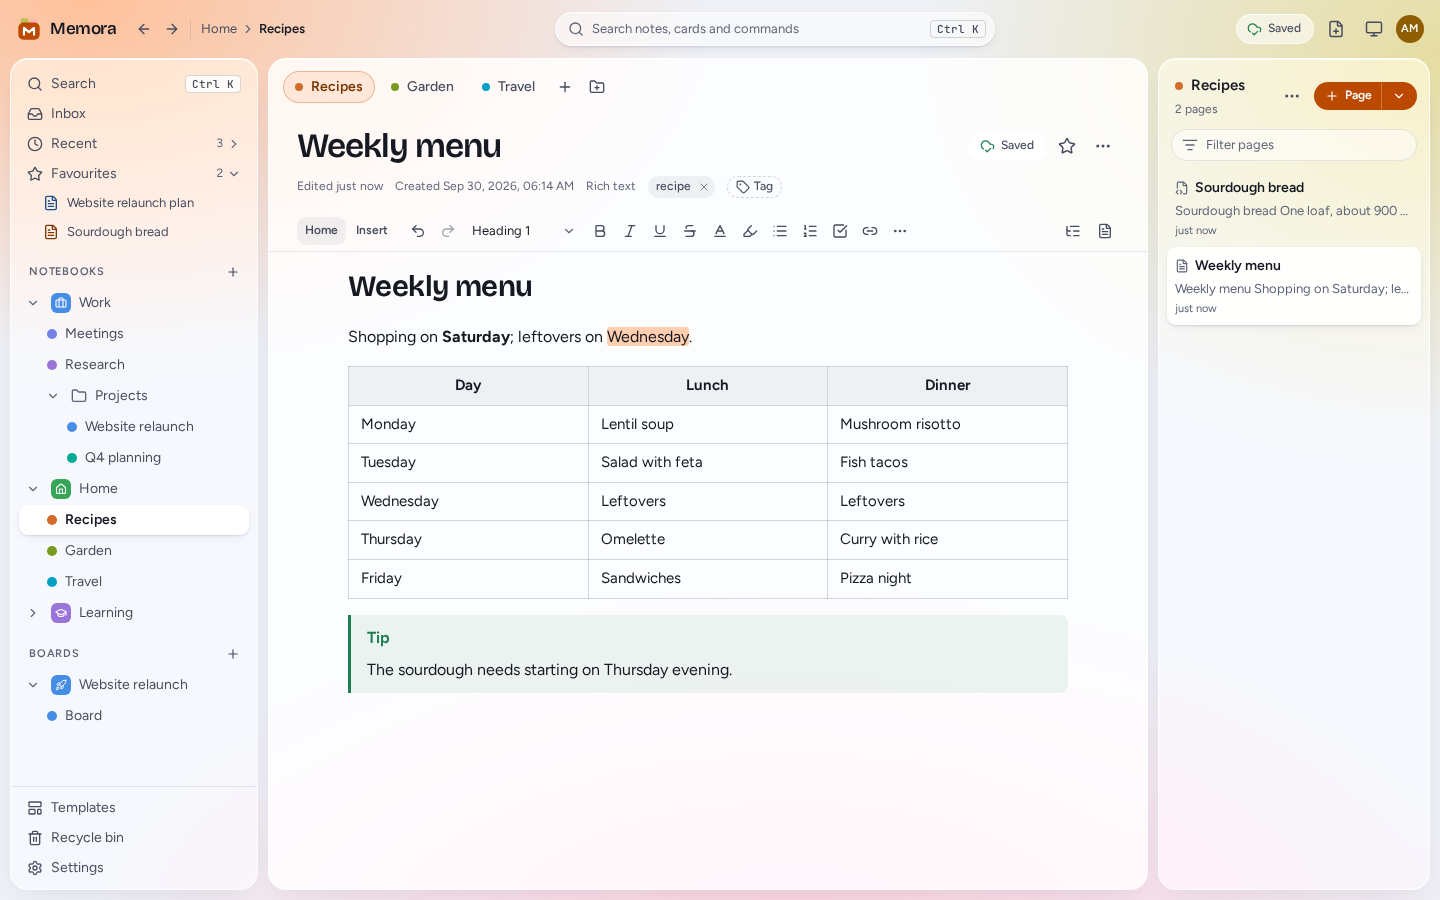
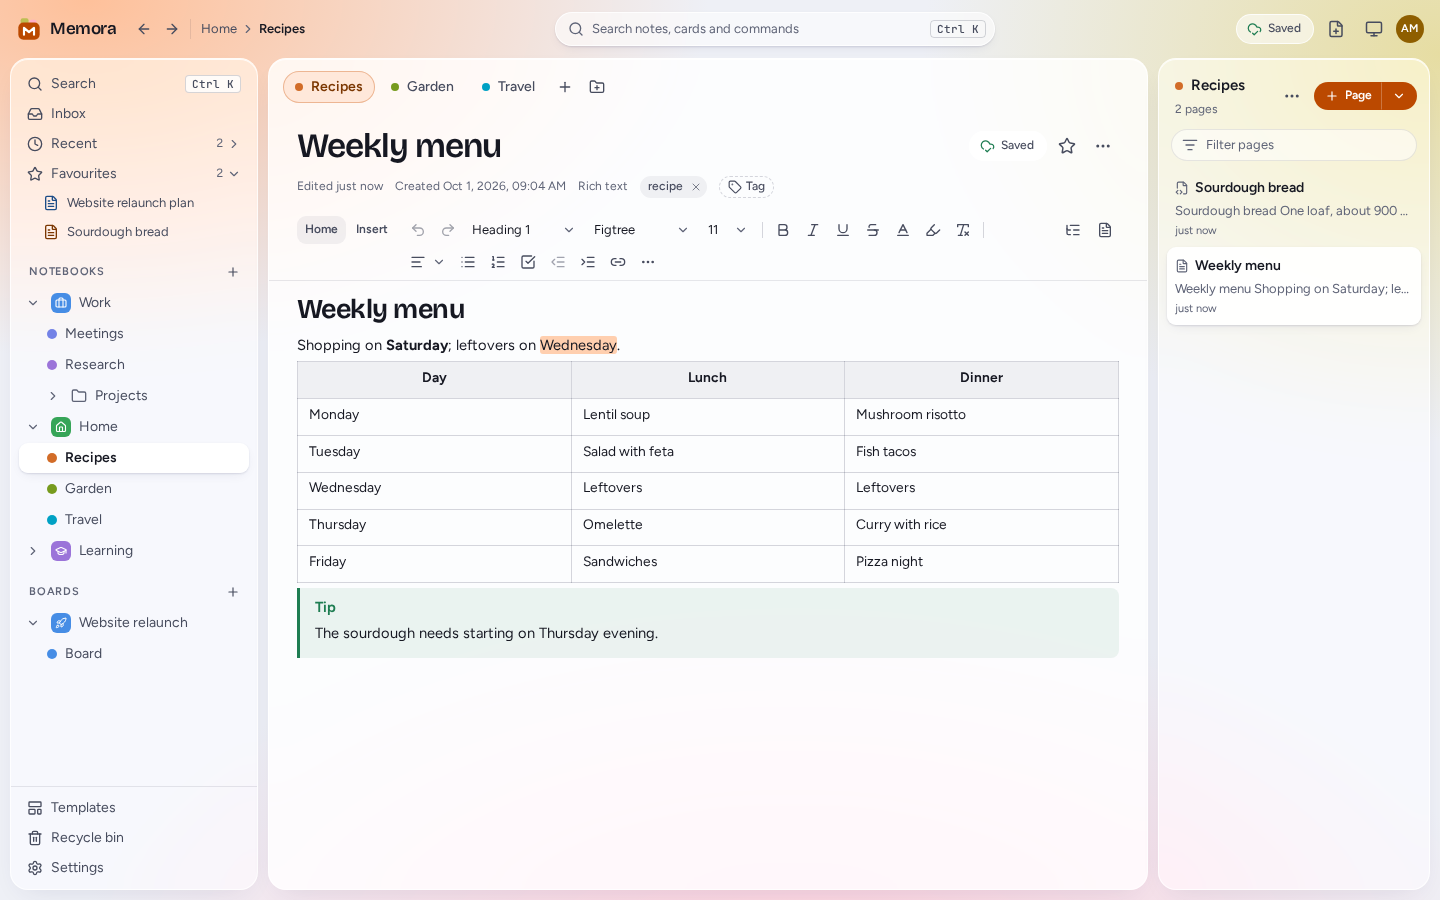
docs: rich text pages as notebook pages
The user guide explains the text's width, to-dos and indents from the
keyboard, the rich text settings and the computer's fonts, with a new
screenshot. The architecture notes cover the width handle, the keys and the
wrapping toolbar.

diff --git a/docs/ARCHITECTURE.md b/docs/ARCHITECTURE.md
@@ -164,7 +164,7 @@ Memora for your computer is the same server and web app, packaged with Electron.
 - **Section colours** (`src/theme/sections.ts`). The 12 colours are OKLCH hue and chroma pairs. Any element with the `hue` class and `--h`/`--c` gets a matching set of tints (`--sec`, `--sec-soft`, `--sec-ink`). The app accent follows the open section, with an animated transition.
 - **Shell** (`src/shell/`). One grid whose columns follow **container queries** on the app root, not the viewport: phone (bottom navigation and drill-down), tablet (icon rail and overlays), desktop (three columns), wide (plus the inspector) and ultra-wide (with the workspace: up to three panes beside the main one). The address says where you are (`/n/`, `/g/`, `/s/`, `/p/` plus an id); `location.ts` turns it into the open notebook, section and page, and on larger screens falls back to the last section and page you had open. Commands (`commands.ts`) are shared by buttons, context menus, the command palette and the keyboard shortcuts (`shortcuts.ts`, one table that also drives the `?` sheet).
 - **Workspace** (`src/workspace/`, D44). From 1920 px, panes sit beside the main pane (which stays the address's): one on wide screens, up to three on ultra-wide ones. `model.ts` holds the rules as pure functions (adding and closing panes and tabs, moving and splitting tabs, resizing, layouts); `store.ts` keeps each device class's workspace in local storage, per user; named layouts go in the UI state. `Workspace.tsx` draws the row of panes, their tabs, the dividers and where a dragged tab would land (`tabDrag.ts`); `PaneContent.tsx` shows a page, a board (`BoardView` with its own open card), a search, or the backlinks or history of the main page. The Layout menu in the top bar saves and applies named layouts.
-- **Readable width.** The page body sets `--measure` from the longest line in the editor settings (or `none` for a page shown at full width, a list in the UI state); the Markdown source, the preview and rich pages stop there, centred.
+- **Readable width.** The page body sets `--measure` from the longest line in the editor settings (or `none` for a page shown at full width, a list in the UI state); the Markdown source and the preview stop there, centred. Rich pages start at the top left and fill the pane, as a notebook's do: the handle on the text's right edge (`rich/TextWidth.tsx`) sets a page's own width, kept in the UI state's `pageWidths` (merged per page by the server, like `lastPages`; null forgets one).
 - **Notes data** (`src/notes/`). The tree is one TanStack Query entry; `model.ts` builds lookups and ordered lists from it once per change, and plans moves with the same rules and sort keys as the server. Every change shows at once and is then replaced by the server's answer; requests go out one at a time, in order, and each answer is laid under the changes still waiting, so an earlier answer never undoes a later change. A failure shows a toast and reloads the tree. UI state (last section and pages, expanded items) is saved a moment after it changes.
 - **Drag and drop** (`src/lib/dnd.ts`). A small pointer-events module instead of a library: drop targets are `data-drop-*` attributes found under the pointer, so rows register nothing. Touch drags start after a long press; Escape cancels. `shell/dropRules.ts` decides what may be dropped where.
 - **Saving and sync** (`src/sync/`, D24–D25). The engine starts after login, with one IndexedDB database per user (`store.ts`, through `idb`). Each page has a record: its text, the revision and text it is based on, and whether it waits to be sent; the outbox is simply the records with unsent changes, plus pages created offline.
@@ -178,7 +178,7 @@ Memora for your computer is the same server and web app, packaged with Electron.
   - If IndexedDB can't be used, a store in memory takes over, the tab saves directly, and the app warns that closing the tab could lose changes.
 - **Markdown** (`src/markdown/`, D27). `pipeline.ts` is the unified pipeline (GFM, footnotes, alerts, maths, wiki links, front matter, raw HTML, then `rehype-sanitize`); block elements get `data-line`. It runs in `render.worker.ts`, which sends back the tree with positions only on top-level blocks. `Preview.tsx` renders each top-level block on its own (memoised by its source), with components for code (Shiki, `highlight.ts`), maths (`math.ts`, KaTeX), diagrams (`mermaid.ts`), images and files (`asset:` links, from this device's copy while they wait to be sent), wiki links and task boxes. `outline.ts` reads headings and counts words from the source.
 - **Editor** (`src/editor/`). `MarkdownPage.tsx` is the page: toolbar, Source / Split / Preview, scroll sync (`scrollSync.ts`, with block positions cached until the preview changes), the outline and the grid editor. `MarkdownEditor.tsx` sets up CodeMirror 6, with settings in compartments so a change needs no new editor. Beside it: the highlight theme (`theme.ts`), table alignment and commands (`tables.ts`, on the shared `table.ts`), formatting commands, slash commands and `[[` suggestions (`completion.ts`), paste and drop (`paste.ts`), image thumbnails and two-column boxes for wide characters (`thumbnails.ts`, `wide.ts`). All of it is one lazily loaded chunk.
-- **Rich text** (`src/rich/`, D30–D32). `schema.ts` is the list of nodes and marks (TipTap's, plus callouts, file cards, images with width, alignment and caption, line spacing and cell colours), used by the editor and by conversion alike. `RichEditor.tsx` keeps the document in step with the sync engine like the Markdown editor (the text is the JSON), and handles paste and drop: files become images or file cards, pasted HTML is cleaned (`clean.ts`) and its web images are downloaded by the server afterwards (`files.ts`). Around it: the Word-like toolbar (`RichToolbar.tsx`, which measures its width to drop the tabs and move tools into "More"), `/` and `[[` menus (`suggestions.ts`), drag handles (`dragHandle.ts`), Shiki colours for code (`codeHighlight.ts`, as decorations), image and file views (`views.tsx`), and the page (`RichPage.tsx`: selection menu, link and formula dialogs, the right-click table menu, the A4/Letter sheet, the outline, and the toolbar above a phone's keyboard). `convert.ts` turns Markdown into a rich document through the preview's pipeline; the other way is `richToMarkdown` in `@memora/shared`. The editor is a lazily loaded chunk; PageBody picks it from the page record's type.
+- **Rich text** (`src/rich/`, D30–D32). `schema.ts` is the list of nodes and marks (TipTap's, plus callouts, file cards, images with width, alignment and caption, line spacing and cell colours), used by the editor and by conversion alike. `RichEditor.tsx` keeps the document in step with the sync engine like the Markdown editor (the text is the JSON), and handles paste and drop: files become images or file cards, pasted HTML is cleaned (`clean.ts`) and its web images are downloaded by the server afterwards (`files.ts`). Around it: the Word-like toolbar (`RichToolbar.tsx`: it wraps onto a second row, keeping related tools together, and on one row, above a phone's keyboard, moves tools into "More"), the notebook keys (`keys.ts`: to-dos ticked with Ctrl/Cmd+Enter or Ctrl/Cmd+1, Tab and Shift+Tab indent, through `schema.ts`'s `indent` attribute on paragraphs and headings), the computer's own fonts where the browser lists them (`LocalFonts.tsx`, Local Font Access; the desktop app allows it), `/` and `[[` menus (`suggestions.ts`), drag handles (`dragHandle.ts`), Shiki colours for code (`codeHighlight.ts`, as decorations), image and file views (`views.tsx`), and the page (`RichPage.tsx`: selection menu, link and formula dialogs, the right-click table menu, the A4/Letter sheet, the outline, the toolbar above a phone's keyboard, clicks beside or below the text that place the cursor on the nearest line, and the default font, size and spacing from the editor settings as CSS variables). `convert.ts` turns Markdown into a rich document through the preview's pipeline; the other way is `richToMarkdown` in `@memora/shared`. The editor is a lazily loaded chunk; PageBody picks it from the page record's type.
 - **Files** (`sync/engine.ts`). `addFile` keeps a pasted file as an `uploadFile` op in IndexedDB and answers a new id; the sender uploads ops before page content. Where IndexedDB can't keep Blobs (Safari's private windows), the op keeps the file's bytes instead. Images can be made smaller first (`lib/images.ts`, an Editing setting). The service worker keeps loaded files in `memora-files`, emptied when the user signs out.
 - **Search, tags and links** (`src/search/`, `shell/PageTags.tsx`, D36–D37). `SearchView.tsx` is `/search`: the query and filters live in the address, results come 150 ms after typing stops, and without a connection titles are searched on the device. With nothing typed it shows recent pages and the tag browser. Links to pages preview their page on hover (`markdown/PageCard.tsx`; `rich/LinkPreview.tsx` in the rich editor), rich pages mark links to missing pages with a decoration (`rich/wikiLinks.ts`), and the inspector lists backlinks.
 - **Favourites, recent pages and templates** (`notes/places.ts`, `shell/Places.tsx`, `templates/`, D38). Both lists are kept in the UI state. "New page ▾" (`shell/NewPageMenu.tsx`), a section's default template and `/template` fill a template in (`contentFor`, converting between Markdown and rich text when needed).

diff --git a/docs/USER_GUIDE.md b/docs/USER_GUIDE.md
@@ -65,16 +65,23 @@ The source is on the left, the finished page on the right, and the two scroll to
 
 ![A rich text page with a table, a note box and an image](images/rich.png)
 
-Rich text pages work like a word processor. The toolbar has **Home**, **Insert** and **Table** tabs; on narrow screens, **More** has everything.
+Rich text pages work like a page of a notebook, with a word processor's tools. The toolbar has **Home**, **Insert** and **Table** tabs. When the window is too narrow for one row, the toolbar takes two; on phones, **More** has everything.
 
-- Headings, bold, italic, underline, strikethrough, superscript and subscript; text colours and highlights; fonts, sizes, alignment and line spacing.
-- Lists, task lists, quotes, note boxes, dividers, code blocks and maths.
+- **The text starts at the top left**, under the title, and fills the pane. Drag its right edge to make it narrower: each page keeps its own width. Double-click the edge, or choose **Fit the text to the pane** in the page's **⋯** menu, to fill the pane again.
+- `Enter` in the title goes on to the text. Clicking beside or below the text puts the cursor on the nearest line.
+- Headings, bold, italic, underline, strikethrough, superscript and subscript; text colours and highlights; fonts, sizes, alignment and line spacing. `Ctrl+Space` clears the formatting of the selected text.
+- **To-dos:** `Ctrl/Cmd+1` makes a line a to-do, and ticks it when it already is one. `Ctrl/Cmd+Enter` ticks or unticks it. Done items are struck through.
+- **`Tab` and `Shift+Tab` indent:** a list item moves a level, and other text moves in or out a step. In a table they go to the next or previous cell. `Esc`, then `Tab`, leaves the page.
+- Lists, quotes, note boxes, dividers, code blocks and maths.
 - Tables with a header row, merged cells, cell colours and resizable columns: right-click a cell for the table menu.
 - Selecting text shows a small formatting menu; `/` inserts blocks; the handle beside a block drags it elsewhere.
 - **Pasting from Word, Google Docs and web pages** keeps the formatting, cleaned up: lists stay lists, and stray fonts and colours go.
-- **Settings → Editing → Show pages as** lays the page out as an A4 or Letter sheet, to see what a Word or PDF export will look like.
+- **Settings → Editing → Rich text pages:**
+  - **Spacing:** **Compact** (the default) keeps lines and paragraphs close together, as in a notebook; **Comfortable** gives them more room.
+  - **Font** and **Font size** for text without its own. The toolbar's font list has common fonts. In the desktop app and in Chrome or Edge, **This computer's fonts…** lists the fonts installed on your computer; a page set in one of them shows a similar font on computers that don't have it.
+  - **Show pages as** lays the page out as an A4 or Letter sheet, to see what a Word or PDF export will look like.
 
-Converting a rich page to Markdown first lists what Markdown can't keep (colours, font sizes, merged cells). The page as it was is always kept in its history.
+Converting a rich page to Markdown first lists what Markdown can't keep (colours, font sizes, indents, merged cells). The page as it was is always kept in its history.
 
 ### Images and files
 
@@ -145,7 +152,7 @@ On a wide screen, **panes** open beside the main page: one on a wide screen, up 
 - Drag the edge between panes to resize them.
 - **Save this layout…** in the layout menu keeps the panes and their tabs under a name, to come back to.
 - Each kind of screen (wide, ultra-wide) remembers its own panes.
-- **Settings → Editing → Line length** sets how wide text runs (70 to 100 characters). A page's **Full width** option uses the whole pane.
+- **Settings → Editing → Line length** sets how wide Markdown text runs (70 to 100 characters). A Markdown page's **Full width** option uses the whole pane. Rich text fills the pane; drag its right edge to make it narrower.
 
 ## Offline and the app
 
@@ -247,5 +254,7 @@ The first account is the administrator. Administrators manage accounts and the s
 | `Ctrl/Cmd+S`            | Send changes to the server now                                                  |
 | `Ctrl/Cmd+F`            | Find (and replace) in the page                                                  |
 | `Esc`, then `Tab`       | Leave the editor, to move on with the keyboard                                  |
+
+In rich text pages, `Ctrl/Cmd+1` and `Ctrl/Cmd+Enter` handle to-dos, `Tab` and `Shift+Tab` indent, and `Ctrl+Space` clears formatting. `?` lists each editor's keys.
 
 In lists and trees, the arrow keys move and expand, `Enter` opens, and `Shift`-click or `Ctrl/Cmd`-click selects several.
